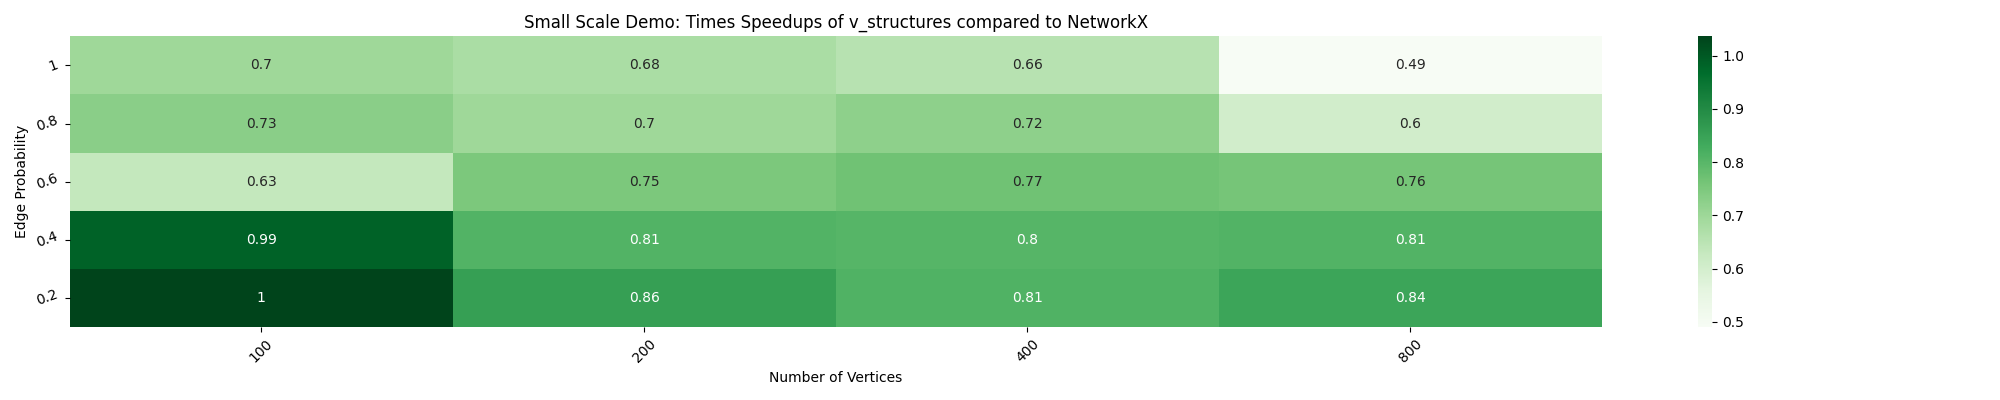
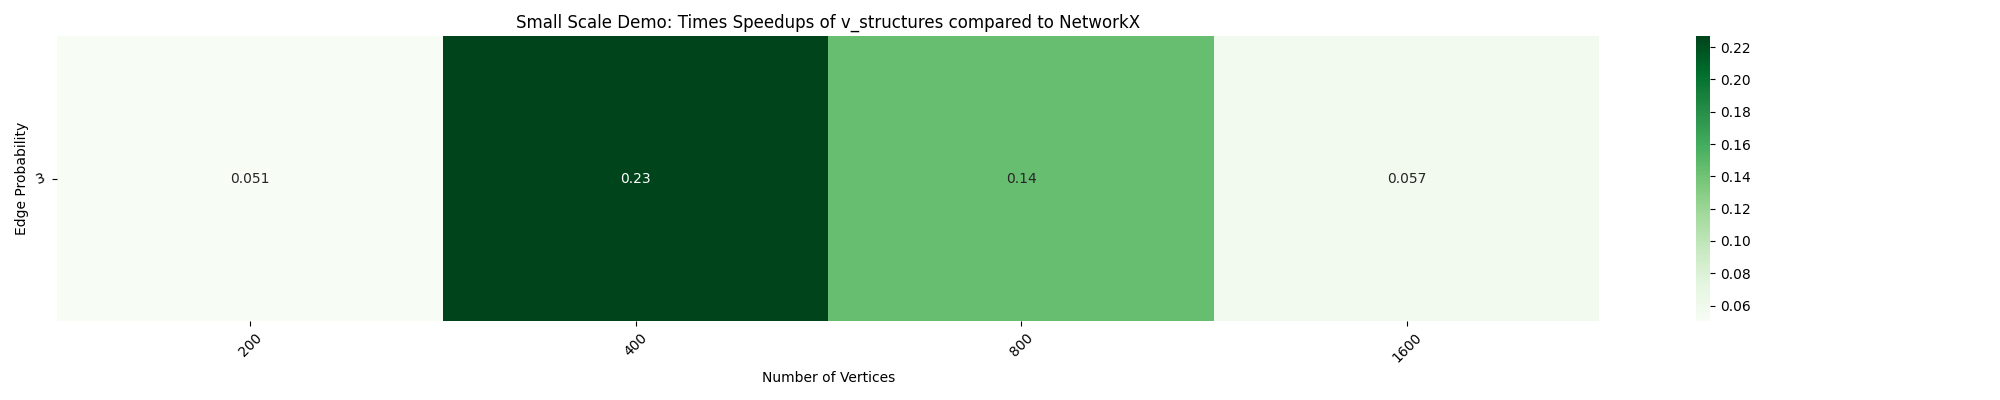
use dag instead of directed graph

diff --git a/benchmarks/benchmarks/bench_dag.py b/benchmarks/benchmarks/bench_dag.py
@@ -1,22 +1,20 @@
 from .common import (
     backends,
     num_nodes,
-    edge_prob,
-    get_cached_gnp_random_graph,
     Benchmark,
 )
 import networkx as nx
 
 
 class DAG(Benchmark):
-    params = [backends, num_nodes, edge_prob]
-    param_names = ["backend", "num_nodes", "edge_prob"]
+    params = [backends, num_nodes]
+    param_names = ["backend", "num_nodes"]
 
-    def setup(self, backend, num_nodes, edge_prob):
-        self.G = get_cached_gnp_random_graph(num_nodes, edge_prob, is_directed=True)
+    def setup(self, backend, num_nodes):
+        self.G = nx.gn_graph(num_nodes, seed=42, create_using=nx.DiGraph)
 
-    def time_colliders(self, backend, num_nodes, edge_prob):
+    def time_colliders(self, backend, num_nodes):
         _ = nx.dag.colliders(self.G, backend=backend)
 
-    def time_v_structures(self, backend, num_nodes, edge_prob):
+    def time_v_structures(self, backend, num_nodes):
         _ = nx.dag.v_structures(self.G, backend=backend)

diff --git a/nx_parallel/tests/test_get_chunks.py b/nx_parallel/tests/test_get_chunks.py
@@ -66,12 +66,16 @@ def test_get_chunks(func):
         "number_attracting_components",
         "number_weakly_connected_components",
         "number_strongly_connected_components",
+    ]
+    dag_funcs = [
         "v_structures",
         "colliders",
     ]
 
     if func in tournament_funcs:
         G = nx.tournament.random_tournament(15, seed=42)
+    elif func in dag_funcs:
+        G = nx.gn_graph(25, seed=42, create_using=nx.DiGraph)
     else:
         G = nx.fast_gnp_random_graph(
             40, 0.6, seed=42, directed=func in not_implemented_undirected
